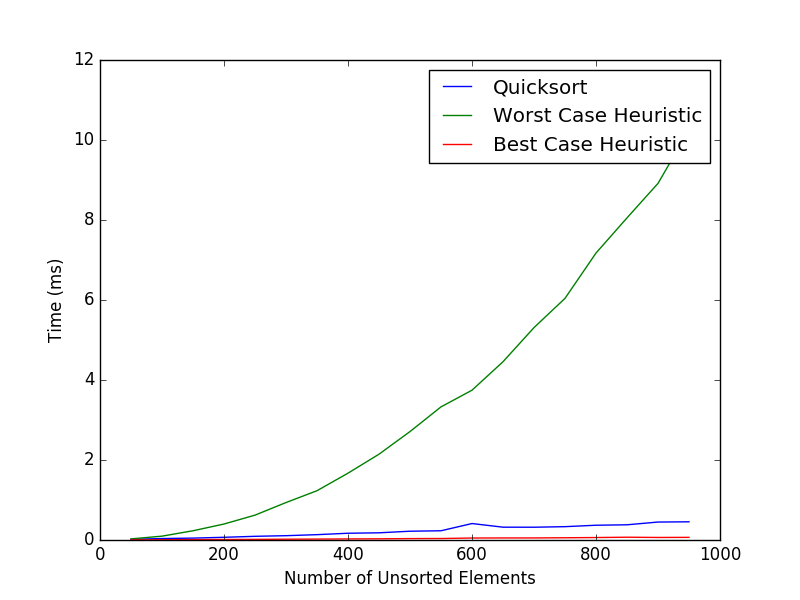
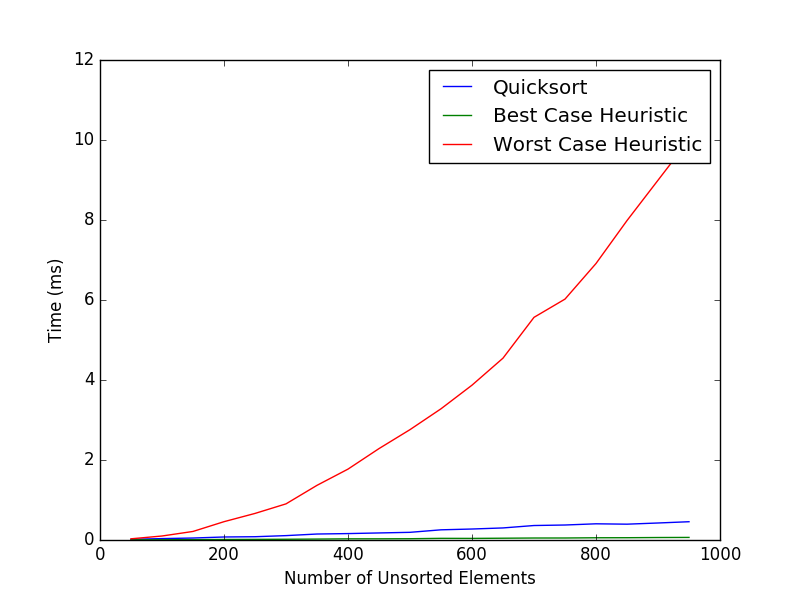
both imgs

diff --git a/src/worst_ideal_quick.py b/src/worst_ideal_quick.py
@@ -44,9 +44,10 @@ def time_ideal_hsort(dataset):
         results.append(timeit.Timer(lambda: sorter(copy.deepcopy(x))).timeit(number=100))
     return results
 
-
-
 def main():
+    global OUTPUT_FILE
+    global NUM_DATA_SETS
+
     d_sets = [np.random.normal(0,50,x) for x in np.arange(50,NUM_DATA_SETS,50)]
 
     nlogn_times = time_for_algo(quicksort,d_sets)
@@ -56,7 +57,23 @@ def main():
     ideal_hsort_times =  time_ideal_hsort(d_sets)
 
     plt.plot([len(x) for x in d_sets],nlogn_times, label="Quicksort")
+    plt.plot([len(x) for x in d_sets],ideal_hsort_times, label="Best Case Heuristic")
     plt.plot([len(x) for x in d_sets],worst_hsort_times, label="Worst Case Heuristic")
+    plt.ylabel('Time (ms)')
+    plt.xlabel("Number of Unsorted Elements")
+    plt.legend()
+    while(True):
+        try:
+            plt.savefig(OUTPUT_FILE)
+            break;
+        except:
+            print("Could not save to %s" % (OUTPUT_FILE))
+            OUTPUT_FILE = input("Enter new File Name:")
+
+    OUTPUT_FILE = "../img/Ideal_vs_Quicksort.png"
+
+    plt.clf()
+    plt.plot([len(x) for x in d_sets],nlogn_times, label="Quicksort")
     plt.plot([len(x) for x in d_sets],ideal_hsort_times, label="Best Case Heuristic")
     plt.ylabel('Time (ms)')
     plt.xlabel("Number of Unsorted Elements")
@@ -69,6 +86,6 @@ def main():
             print("Could not save to %s" % (OUTPUT_FILE))
             OUTPUT_FILE = input("Enter new File Name:")
 
-    print("Figure for Worst Case, Best Case, and Quicksort saved to %s." % (OUTPUT_FILE))
+    print("Figure for Best Case and Quicksort saved to %s." % (OUTPUT_FILE))
 if __name__ == "__main__":
     main()

diff --git a/src/heuristic_sort.py b/src/heuristic_sort.py
@@ -6,6 +6,7 @@ def ins_sort(k):
             j=j-1 #take k[j] all the way left to the place where it has a smaller/no value to its left.
     return k
 
+# heuristic sort generator accepts a lambda parameter that needs to return a value between 0 & .99
 def heuristic_sort_generator(heuristic):
 
     def sorter(arr):
